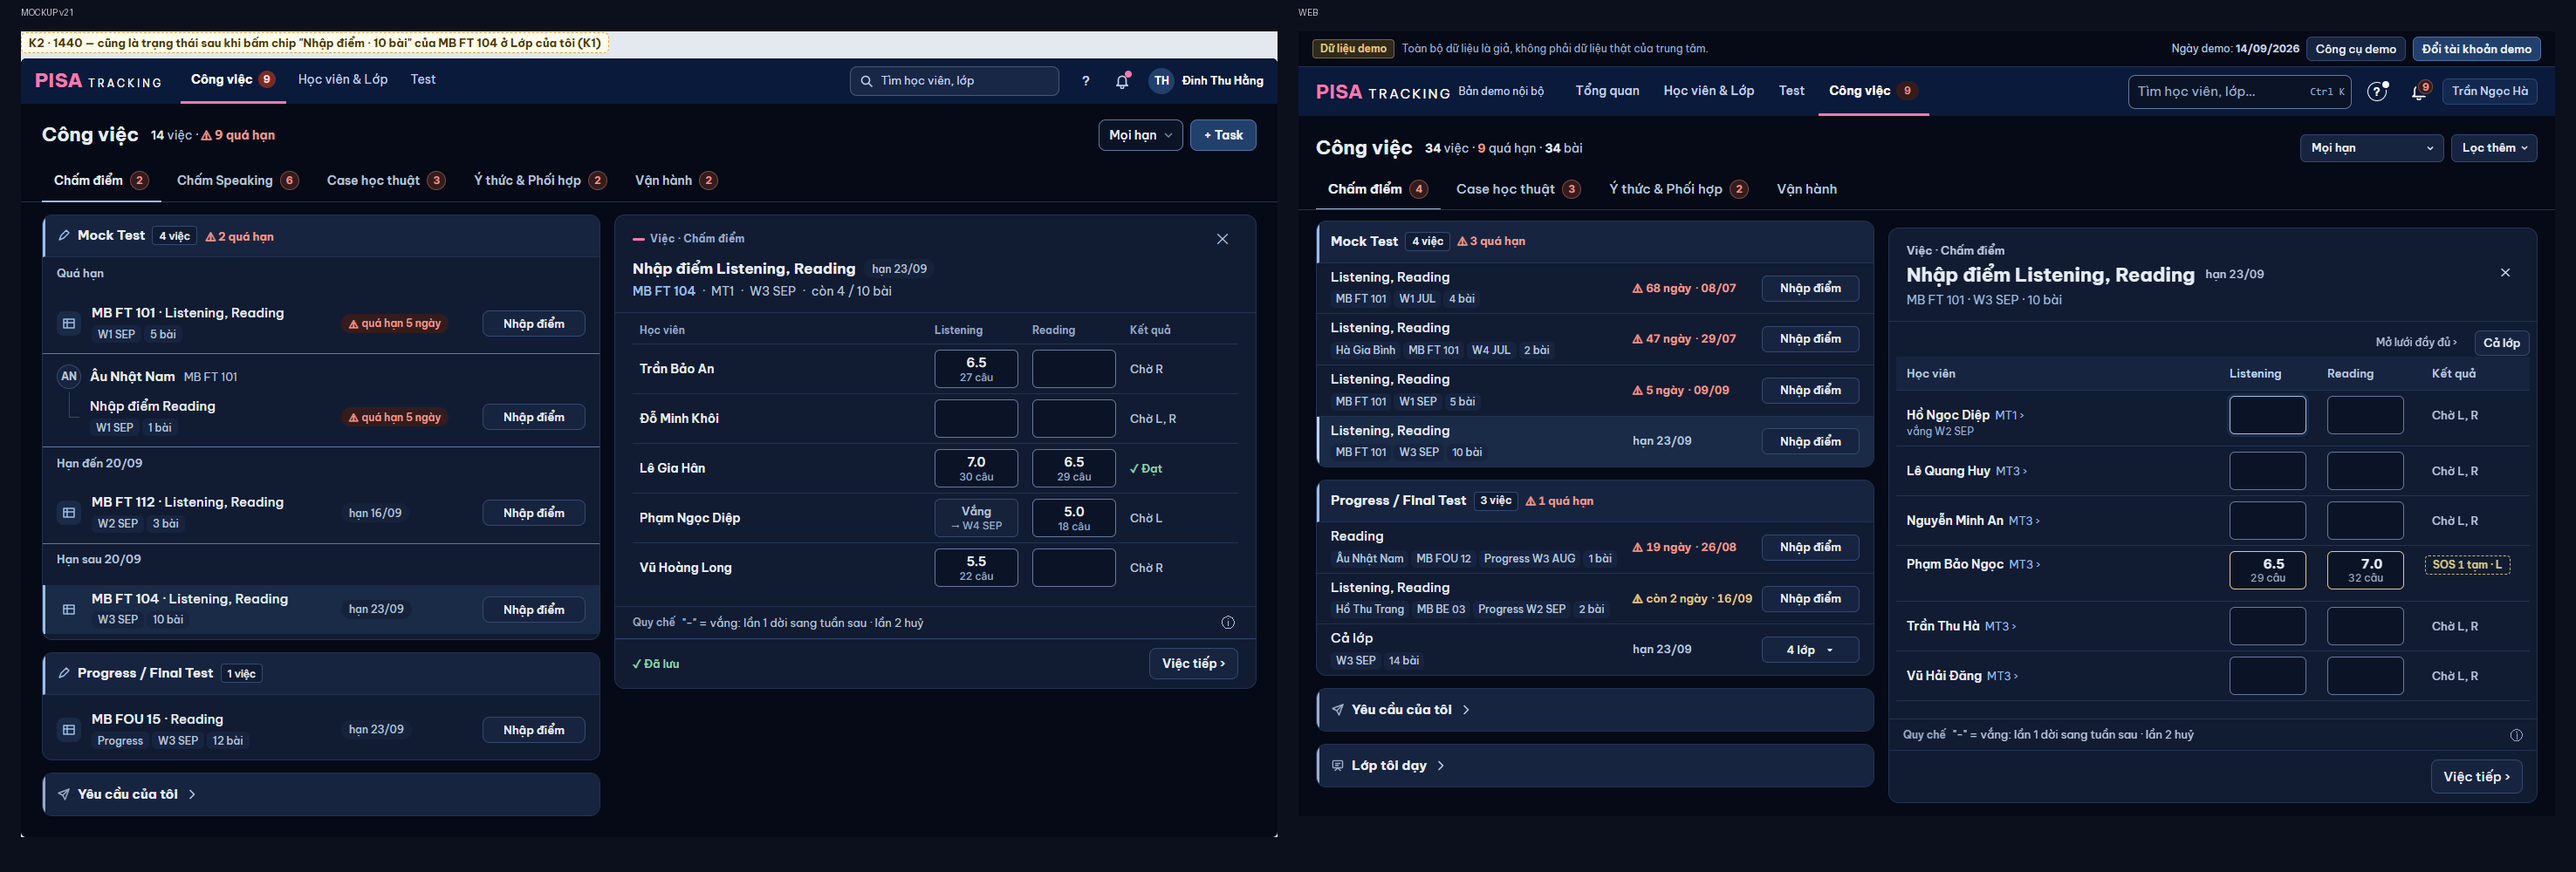
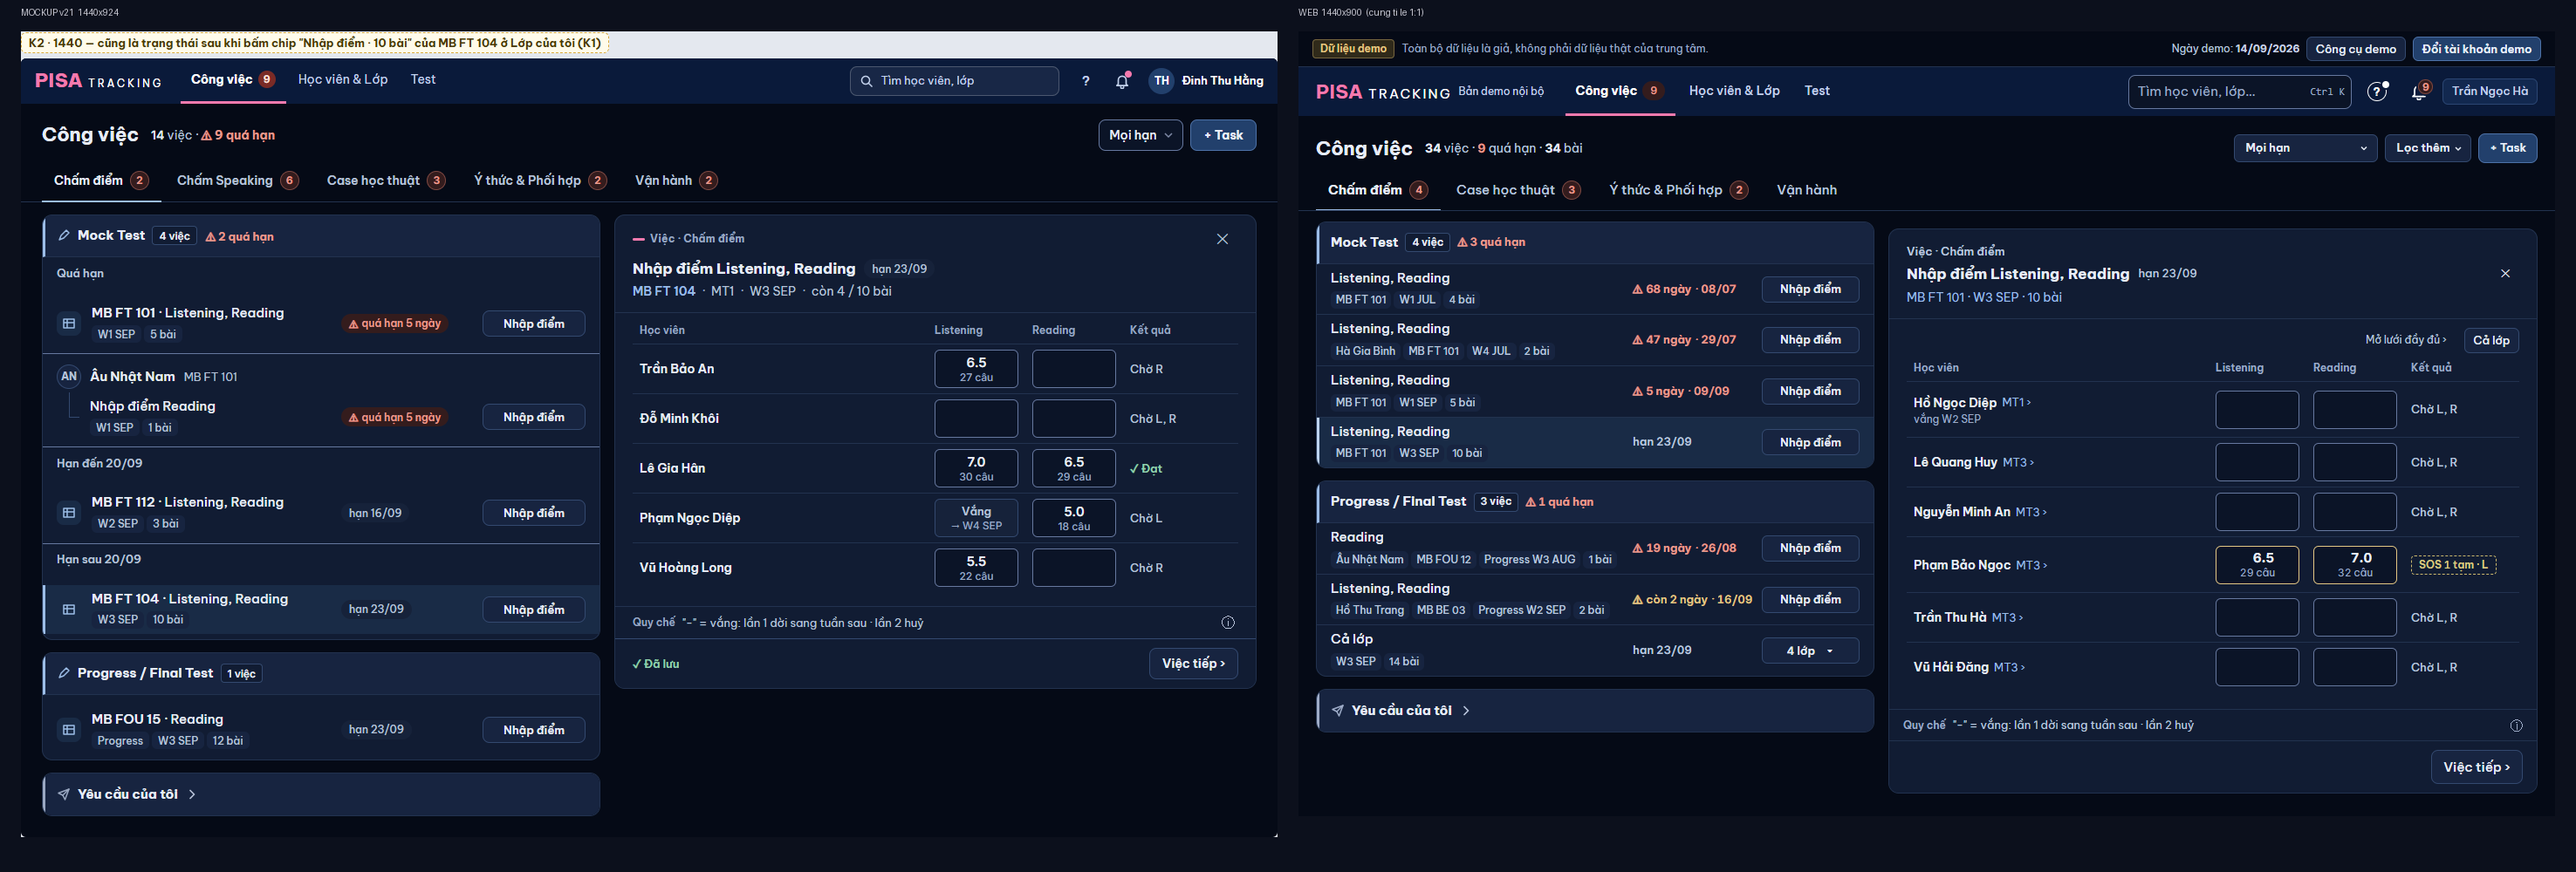
GD-3: lưới + hộp nhập điểm y hệt mockup K2 / K2b theo số đo DevTools (cột 112/112/132, hàng 57, đệm 6×8, đầu cột 12 px, hộp 440 có ✕), tiêu đề panel việc 17 px

diff --git a/web/src/modules/fasttrack/HopNhapDiem.tsx b/web/src/modules/fasttrack/HopNhapDiem.tsx
@@ -597,7 +597,7 @@ export function HopNhapDiem({ cell, anchor, ctx, onSave, onDong, onTiep, nhanTie
       {/* GD-3 HOP-NHAP-GON (mockup v21 K2b): ngoài chỉ ⋯ · Vắng · nút chính; ⋯ = Lưu · đóng (thay "Lưu" ở lại khi có bài kế) · Khôi phục điểm · Bỏ vắng
           (hai mục sau chỉ khi ô ở trạng thái đó). Không có bài kế: "Lưu" vẫn là nút chính như cũ. */}
       {!daLuu && (
-        <MenuDong canhTrai muc={[
+        <MenuDong canhTrai lopNut={`${nut} w-9 justify-center px-0`} muc={[
           ...(onTiep ? [{ key: 'luu-dong', nhan: t('Lưu · đóng'), tat: busy, title: busy ? dangLuuChu : undefined, onChon: () => luu(false, true) }] : []),
           ...(cell.diemHuy ? [{ key: 'khoi-phuc', nhan: CHU_THAO_TAC['khoi-phuc-diem'], tat: busy, title: busy ? dangLuuChu : undefined, onChon: () => void gui([{ khoiPhuc: true }], onDong, 'khac') }] : []),
           ...(boKhongDuThi ? [{ key: 'bo-vang', nhan: t('Bỏ vắng'), tat: busy, title: busy ? dangLuuChu : undefined, onChon: () => void gui([{ noShow: false }], onDong, 'khac') }] : []),
@@ -776,15 +776,20 @@ function KhungHop({ anchor, ten, phu, nhanHop, daGo, cauBo, onDong, onKeyDown, c
       <div ref={box} role="dialog" aria-label={nhanHop} tabIndex={-1} onKeyDown={(e) => { if (!hoi) onKeyDown(e); }}
         className={`z-[60] border outline-none ${dienThoai
           ? 'fixed inset-x-0 bottom-0 max-h-[85vh] overflow-y-auto rounded-t-2xl'
-          : 'fixed w-[min(400px,calc(100vw-32px))] rounded-xl shadow-2xl'}`}
+          : 'fixed w-[min(440px,calc(100vw-32px))] rounded-xl shadow-2xl'   /* GD-3: = mockup v21 `.hop` 440 */}`}
         style={{ background: 'var(--surface)', borderColor: 'var(--line-strong)' }}>
         {dienThoai && <div aria-hidden className="mx-auto mt-2 h-1 w-10 rounded-full bg-white/20" />}
-        <div className="border-b px-3.5 pb-2 pt-3" style={{ borderColor: 'var(--line)' }}>
-          <div className="text-[15px] font-bold text-slate-100">{ten}</div>
-          <div className="mt-0.5 truncate text-xs text-slate-400" title={nhanHop}>{phu}</div>
+        <div className="flex items-start gap-2 border-b pb-2.5 pl-4 pr-3 pt-3" style={{ borderColor: 'var(--line)' }}>
+          <div className="min-w-0 flex-1">
+            <div className="text-[15px] font-bold text-slate-100">{ten}</div>
+            <div className="mt-0.5 truncate text-[13px] text-slate-400" title={nhanHop}>{phu}</div>
+          </div>
+          {/* GD-3 (mockup v21 K2b): ✕ ở đầu hộp — cùng đường với Esc (đã gõ thì hỏi bỏ chữ ở chân). */}
+          <button type="button" aria-label={t('Đóng')} className="-mr-1 grid h-9 w-9 shrink-0 place-items-center rounded-md border-0 bg-transparent text-[17px] text-slate-400 hover:text-slate-100 max-sm:h-11 max-sm:w-11"
+            onClick={() => { if (daGo) setHoi(true); else onDong(); }}>✕</button>
         </div>
-        <div className="flex flex-col gap-3 px-3.5 py-3">{children}</div>
-        <div className="flex flex-wrap items-center gap-2 border-t px-3.5 py-2.5" style={{ borderColor: 'var(--line)' }}>
+        <div className="flex flex-col gap-2.5 px-4 py-3">{children}</div>
+        <div className="flex flex-wrap items-center gap-2 border-t px-4 pb-3 pt-2.5" style={{ borderColor: 'var(--line)' }}>
           {hoi ? (
             <>
               <span role="alert" className="min-w-0 flex-1 text-[13px] text-slate-200">{cauBo}</span>

diff --git a/web/src/index.css b/web/src/index.css
@@ -265,12 +265,19 @@
   /* Lưới trong panel việc (`LuoiTrongPanel`, chủ SP 08/11): rộng hơn panel thì cuộn ngang — cột tên HV đứng yên (dính trái, nền đặc),
      đang cuộn thì có viền + bóng nhẹ; còn cột bên phải thì mép phải mờ dần (chỉ báo cuộn). Ô không bị cắt cụt. */
   .luoi-trong-panel .table-scroll > table > :is(thead, tbody) > tr > :first-child { position: sticky; left: 0; z-index: 1; background: var(--surface); }
-  .luoi-trong-panel .table-scroll > table > thead > tr > :first-child { z-index: 11; background: var(--surface-2); }
+  .luoi-trong-panel .table-scroll > table > thead > tr > :first-child { z-index: 11; background: var(--surface); }   /* GD-3: đầu cột nền trong như mockup v21 */
   .luoi-trong-panel .table-scroll[data-con-trai] > table > :is(thead, tbody) > tr > :first-child { box-shadow: inset -1px 0 0 var(--line-strong), 6px 0 8px -4px var(--line-strong); }
   .luoi-trong-panel .table-scroll[data-con-phai] { mask-image: linear-gradient(to right, var(--surface) calc(100% - 48px), transparent); }   /* mask chỉ dùng độ đục — màu nào đặc cũng được */
   /* GD-3 (mockup v21 K2 `.luoi`): lưới trong panel việc — cột tên lấy phần còn lại, cột ô 112 / Kết quả 132 (LuoiFT); tên cột + ô căn trái như mockup. */
   .luoi-trong-panel .bang > colgroup > col:first-child { width: auto !important; }
   .luoi-trong-panel .bang :is(th, td)[data-kieu="diem"] { text-align: left; }
+  /* Đo DevTools so mockup (`v21.css` .luoi th / td): đầu cột 12 / 600 màu mờ nhất, đệm 8, nền trong; ô đệm 6 × 8, kẻ dưới mảnh; Kết quả không lùi 20. */
+  .luoi-trong-panel .bang > thead > tr > th { padding: 8px; font-size: 12px; line-height: 15px; color: var(--text-faint); background: var(--surface); }
+  .luoi-trong-panel .bang > tbody > tr > td { padding: 6px 8px; font-size: 14px; }
+  .luoi-trong-panel .bang > tbody > tr > td { vertical-align: middle; }
+  .luoi-trong-panel .bang > tbody > tr:last-child > td { border-bottom: 0; }
+  .luoi-trong-panel .table-scroll:not([data-con-trai]) .bang > tbody > tr:last-child > td { box-shadow: none; }
+  .luoi-trong-panel .bang th[data-kieu="chip"] { padding-left: 8px; }
   /* G1-11 (mockup L4): lưới lớp thường gọn ở màn hẹp ("Xem dạng bảng") — cột Học viên · Kết quả 128 px (đứng yên), môn cuộn ngang, thấy 2 môn mỗi khung. */
   @media (max-width: 767px) { .luoi-thuong-gon table > colgroup > col:first-child { width: 128px !important; } }
   .luoi-thuong-gon .ten-ho-so { white-space: normal; overflow: visible; }   /* G1-11: tên dài xuống dòng trong cột 200 px, không cắt "…" */

diff --git a/web/src/ui/KhungPanel.tsx b/web/src/ui/KhungPanel.tsx
@@ -354,10 +354,10 @@ export function KhungPanel({ tieuDe, hocVien, lop, rong: rongRieng, tabs, vungTa
             {vachLoai && <div className="-mb-1.5">{vachLoai}</div>}
             <div className="flex items-start gap-2.5">
               {/* RA-UI-6 (critique A4): panel nằm trong cột hồ sơ (`trongCot`) dưới đầu mục 15 → tiêu đề 15, không lớn hơn tầng cha. */}
-              {/* CV-TAB (mockup v17 `.pv-tieu` 20 px → 22, cỡ gần nhất trong thang khoá): ở Công việc tiêu đề 22 / 700, chip hạn đứng ngay sau tiêu đề, ✕ góc phải. */}
+              {/* CV-TAB: chip hạn đứng ngay sau tiêu đề, ✕ góc phải. GD-3 (mockup v21 ① `.pn-tieu h2` 17 / 700, chủ SP duyệt 14/11 — thay 22 của v17). */}
               {cvNgoai ? (
-                <div className="flex min-w-0 flex-1 flex-wrap items-center gap-x-3 gap-y-1">
-                  <h2 className={`m-0 min-w-0 text-[22px] font-bold leading-7 text-slate-100${dau.tieu ? ' flex flex-wrap items-center gap-x-2 gap-y-1' : ''}`}>{dau.tieu ?? tieuDe}</h2>
+                <div className="flex min-w-0 flex-1 flex-wrap items-center gap-x-2.5 gap-y-1">
+                  <h2 className={`m-0 min-w-0 text-[17px] font-bold leading-6 text-slate-100${dau.tieu ? ' flex flex-wrap items-center gap-x-2 gap-y-1' : ''}`}>{dau.tieu ?? tieuDe}</h2>
                   {dau.han}
                 </div>
               ) : <>

diff --git a/web/src/modules/cham/LuoiFT.tsx b/web/src/modules/cham/LuoiFT.tsx
@@ -503,7 +503,7 @@ function SheetRow({ row, lop, active, cot, cc, hien, tuanDangXem, tuanXem, onRel
                 /* LT-GON (M3): "Chờ L, R, W, S" lặp đúng các ô trống bên trái → Kết quả chưa có ghi "–", tên môn còn thiếu ở `title`. */
                 /* RA-GD-0711c: chữ thường trong cột chip lùi 8 px (`px-2`) như chữ trong chip — thẳng tiêu đề "Kết quả" (index.css `th[data-kieu=chip]`). */
                 /* V6 K2 / K3 (mockup ①): lưới chỉ vài cột (mở từ việc, Chấm Speaking) hoặc trong panel việc — ghi thẳng "Chờ S", chỉ kỹ năng đang có cột. */
-                : cot.chiKq || trongPanel ? <span className="whitespace-normal px-2 text-[13px] font-medium text-dim">{choMon(row, hien)}</span>
+                : cot.chiKq || trongPanel ? <span className="whitespace-normal text-[13px] font-medium text-dim">{choMon(row, hien)}</span>
                 : <span className="px-2 text-faint" title={choMon(row)}>–</span>
           )}
           {/* B19 (U06 #5): bỏ dòng phụ `scopeNote` ("1 kỹ năng") — "Chờ W2, S" đã nói đủ; chi tiết ở `title`. */}

diff --git a/web/src/modules/congViec/PanelViec.tsx b/web/src/modules/congViec/PanelViec.tsx
@@ -319,7 +319,7 @@ function PanelNhapDiemTuan({ it, tuMo, onDong, onDaLam, onTiep }: { it: WorkItem
   );
   return (
     <KhungPanel hd="nhap-diem" tieuDe={tieuDe} dau={dau} onDong={onDong} chan={chanViecTiep(onTiep, false)} quyChe={quyCheVang(it.khung === 'thuong')}>
-      {motLop ? luoiLop(lop[0], 'luoi-trong-panel -mx-4 px-2 pt-1') : (
+      {motLop ? luoiLop(lop[0], 'luoi-trong-panel -mx-4 px-5 pt-1') : (
       <ul className="-mx-4 m-0 list-none divide-y p-0" style={{ borderColor: 'var(--line)' }}>
         {lop.map((x) => {
           const dangMo = mo.has(x.key);
